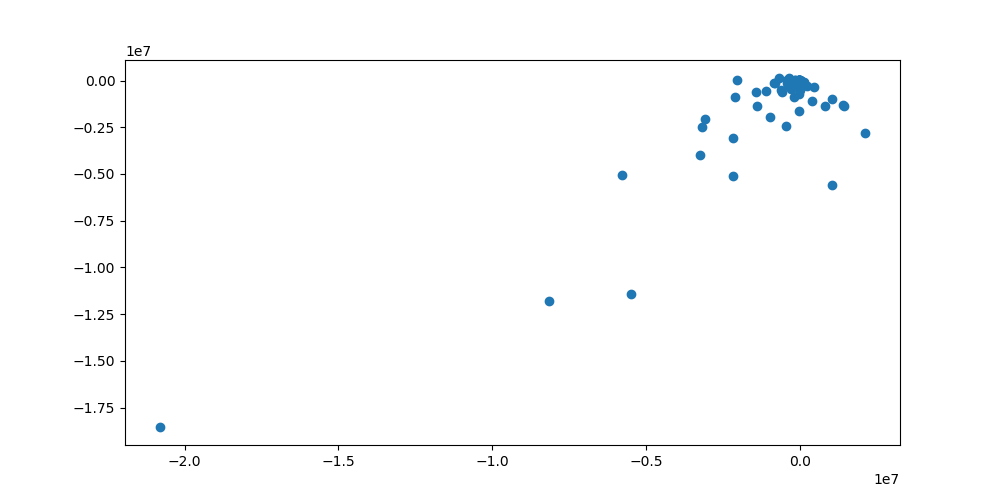
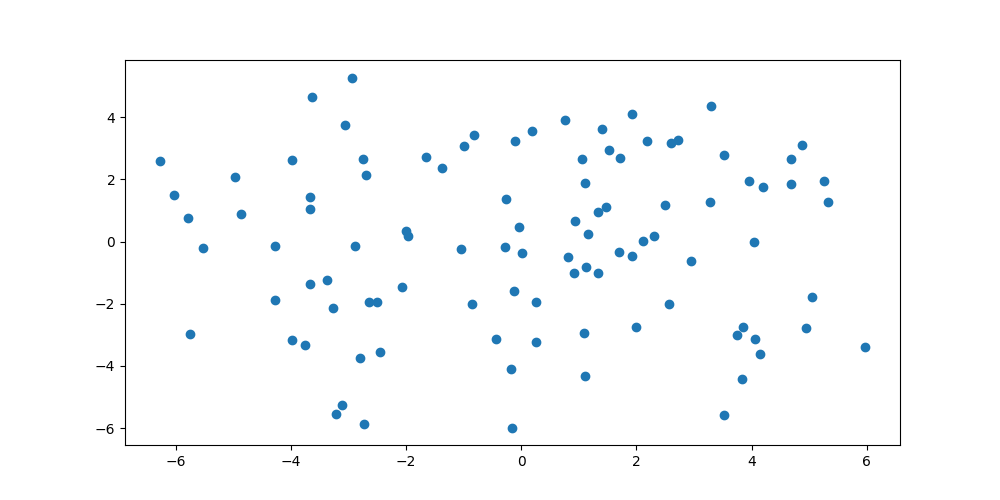
fix

diff --git a/main.cpp b/main.cpp
@@ -1,176 +1,206 @@
-#include <iostream>
+#include <algorithm>
+#include <cmath>
+#include <cstdlib>
+#include <ctime>
 #include <fstream>
-#include <math.h>
+#include <iostream>
+#include <limits>
+#include <vector>
 
-
-
-namespace matrixOperations{
-    float computeMean(float **input, int rowCount, int colCount){
-        float mean = 0.0f;
-        for(int i = 0; i < rowCount; ++i){
-            for(int j = 0; j < colCount; ++j){
-                mean += input[i][j];
+namespace matrixOperations {
+    float *computeColumnMeans(float **input, int rowCount, int colCount) {
+        float *means = new float[colCount];
+        for (int j = 0; j < colCount; ++j) {
+            float sum = 0.0f;
+            for (int i = 0; i < rowCount; ++i) {
+                sum += input[i][j];
             }
+            means[j] = sum / static_cast<float>(rowCount);
         }
-        return (mean / (rowCount*colCount));
+        return means;
     }
 
-    void subtractMean(float **input, int rowCount, int colCount, float mean){
-        for(int i = 0; i < rowCount; ++i){
-            for(int j = 0; j < colCount; ++j){
-                input[i][j] = input[i][j] - mean;
+    void centerData(float **input, int rowCount, int colCount, const float *mean) {
+        for (int i = 0; i < rowCount; ++i) {
+            for (int j = 0; j < colCount; ++j) {
+                input[i][j] -= mean[j];
             }
         }
+    }
+
+    float **cloneMatrix(float **input, int rowCount, int colCount) {
+        float **copy = new float *[rowCount];
+        for (int i = 0; i < rowCount; ++i) {
+            copy[i] = new float[colCount];
+            for (int j = 0; j < colCount; ++j) {
+                copy[i][j] = input[i][j];
+            }
+        }
+        return copy;
+    }
+
+    void deleteMatrix(float **matrix, int rowCount) {
+        for (int i = 0; i < rowCount; ++i) {
+            delete[] matrix[i];
+        }
+        delete[] matrix;
     }
 }
 
-namespace vectorOperations{
-    float eculideanProduct(float *vector1, float *vector2, int length){
+namespace vectorOperations {
+    float dotProduct(float *vector1, float *vector2, int length) {
         float result = 0.0f;
-        for(int i = 0; i < length; ++i){
-            result += (vector1[i] * vector2[i]);
+        for (int i = 0; i < length; ++i) {
+            result += vector1[i] * vector2[i];
         }
         return result;
     }
 
-    float *scalarVectorMultiplication(float *vector, float scalar, int length){
-        float *result = new float[length];
-        for(int i = 0; i < length; ++i){
-            result[i] = scalar * vector[i];
-        }
-        return result;
-    }
-
-    float *scalarVectorDivision(float *vector, float scalar, int length){
-        float *result = new float[length];
-        for(int i = 0; i < length; ++i){
-            result[i] = vector[i] / scalar;
-        }
-        return result;
-    }
-
-    float *addVectors(float *vector1, float *vector2, int length){
-        float *result = new float[length];
-        for(int i = 0; i < length; ++i){
-            result[i] = vector1[i] + vector2[i];
-        }
-        return result;
-    }
-
-    float *subtractVectors(float *vector1, float *vector2, int length){
-        float *result = new float[length];
-        for(int i = 0; i < length; ++i){
-            result[i] = vector1[i] - vector2[i];
-        }
-        return result;
-    }
-
-    float vectorNorm(float *vector, int length){
+    float vectorNorm(float *vector, int length) {
         float result = 0.0f;
-        result = eculideanProduct(vector, vector, length);
-        return sqrt(result);
+        for (int i = 0; i < length; ++i) {
+            result += vector[i] * vector[i];
+        }
+        return std::sqrt(result);
     }
 
-    void printVector(float * vec, int length){
-        for(int i = 0; i < length; ++i){
-            std::cout << vec[i] << std::endl;
+    void normalize(float *vector, int length) {
+        float norm = vectorNorm(vector, length);
+        if (norm == 0.0f) {
+            return;
         }
+        for (int i = 0; i < length; ++i) {
+            vector[i] /= norm;
+        }
+    }
+
+    float *randomVector(int length) {
+        float *vector = new float[length];
+        for (int i = 0; i < length; ++i) {
+            vector[i] = static_cast<float>(rand()) / static_cast<float>(RAND_MAX) - 0.5f;
+        }
+        normalize(vector, length);
+        return vector;
+    }
+
+    void printVector(float *vec, int length) {
+        for (int i = 0; i < length; ++i) {
+            std::cout << vec[i] << " ";
+        }
+        std::cout << std::endl;
     }
 }
 
-namespace pca{
-    float * getNextPC(float **input, int rowCount, int colCount, float epsilon){
-        float *result = new float[colCount];
-        srand (time(NULL));
-        for(int i = 0; i < colCount; ++i){
-            result[i] = (rand() % 100) / 100.f;
-            std::cout << result[i] << std::endl;
-        }
-        float difference = epsilon + 1.0f;
-        while(difference < epsilon){
-            float *s = new float[colCount];
-            for(int i = 0; i < colCount; ++i){
-                s[i] = 0;
+namespace pca {
+    float *getNextPC(float **input, int rowCount, int colCount, float epsilon) {
+        float *result = vectorOperations::randomVector(colCount);
+        float *next = new float[colCount];
+
+        float difference = std::numeric_limits<float>::max();
+        while (difference > epsilon) {
+            for (int j = 0; j < colCount; ++j) {
+                next[j] = 0.0f;
             }
-            for(int j = 0; j < rowCount; ++j){
-                s = vectorOperations::addVectors(s, vectorOperations::scalarVectorMultiplication(input[j], vectorOperations::eculideanProduct(input[j], result, colCount), colCount), colCount);
+
+            for (int i = 0; i < rowCount; ++i) {
+                float project = vectorOperations::dotProduct(input[i], result, colCount);
+                for (int j = 0; j < colCount; ++j) {
+                    next[j] += input[i][j] * project;
+                }
             }
-            difference = std::abs(result - vectorOperations::scalarVectorDivision(s, vectorOperations::vectorNorm(s, colCount), colCount));
+
+            vectorOperations::normalize(next, colCount);
+            difference = 0.0f;
+            for (int j = 0; j < colCount; ++j) {
+                difference += std::abs(next[j] - result[j]);
+            }
+
+            for (int j = 0; j < colCount; ++j) {
+                result[j] = next[j];
+            }
         }
+
+        delete[] next;
         return result;
     }
 
-    float **projectData(float **input, float *component, int rowCount, int colCount){
-        for(int k = 0; k  < rowCount; ++k){
-            input[k] = vectorOperations::subtractVectors(input[k], vectorOperations::scalarVectorMultiplication(input[k], vectorOperations::eculideanProduct(input[k], component, colCount), colCount), colCount);
+    float **performPCA(float **input, int rowCount, int colCount, unsigned short dimension) {
+        int effectiveDimension = std::min(static_cast<int>(dimension), colCount);
+        float **centered = matrixOperations::cloneMatrix(input, rowCount, colCount);
+
+        float *mean = matrixOperations::computeColumnMeans(centered, rowCount, colCount);
+        matrixOperations::centerData(centered, rowCount, colCount, mean);
+
+        float **projected = new float *[rowCount];
+        for (int i = 0; i < rowCount; ++i) {
+            projected[i] = new float[effectiveDimension];
         }
-        return input;
-    }
 
-    // Using the power method
-    float** performPCA(float **input, int rowCount, int colCount, unsigned short dimension){
-        
-        // Step 1: Scale data to the center
-        float mean = matrixOperations::computeMean(input, rowCount, colCount);
-        matrixOperations::subtractMean(input, rowCount, colCount, mean);
-        
-        // Step 2: Use power method to calculate the first principal component
-        float * pc1 = getNextPC(input, rowCount, colCount, 1E-06);
-        std::cout << "first pc: " << std::endl;
-        vectorOperations::printVector(pc1, colCount);
-        // Step 3: Use power method to calculate the first principal component
-        input = projectData(input, pc1, rowCount, colCount);
-        
-        // Step 4: Recurse
-        float * pc2 = getNextPC(input, rowCount, colCount, 1E-06);
-        std::cout << "second pc: " << std::endl;
-        vectorOperations::printVector(pc2, colCount);
-        input = projectData(input, pc2, rowCount, colCount);
+        for (int k = 0; k < effectiveDimension; ++k) {
+            float *component = getNextPC(centered, rowCount, colCount, 1e-6f);
+            std::cout << "PC " << (k + 1) << ": ";
+            vectorOperations::printVector(component, colCount);
 
-        return input;
+            for (int i = 0; i < rowCount; ++i) {
+                float projection = vectorOperations::dotProduct(centered[i], component, colCount);
+                projected[i][k] = projection;
+
+                for (int j = 0; j < colCount; ++j) {
+                    centered[i][j] -= projection * component[j];
+                }
+            }
+
+            delete[] component;
+        }
+
+        delete[] mean;
+        matrixOperations::deleteMatrix(centered, rowCount);
+
+        return projected;
     }
 }
 
-float ** loadData(std::string path, int rowCount, int colCount){
-    float **matrix = new float*[rowCount];
-    for(int i = 0; i < rowCount; ++i)
+float **loadData(int rowCount, int colCount) {
+    float **matrix = new float *[rowCount];
+    for (int i = 0; i < rowCount; ++i) {
         matrix[i] = new float[colCount];
-    for(int i = 0; i < rowCount; ++i)
-        for(int j = 0; j < colCount; ++j)
-            matrix[i][j] = (rand() % 100);
+        for (int j = 0; j < colCount; ++j) {
+            matrix[i][j] = static_cast<float>((rand() % 100)) / 10.0f;
+        }
+    }
     return matrix;
 }
 
-void writeData(std::string path, float **matrix, int rowCount, int colCount){
-    std::ofstream f;
-    f.open(path);
-    for(int i = 0; i < rowCount; ++i){
-        for(int j = 0; j < colCount-1; ++j){
-            f << matrix[i][j];
-            f << ",";
+void writeData(std::string path, float **matrix, int rowCount, int colCount) {
+    std::ofstream f(path);
+    for (int i = 0; i < rowCount; ++i) {
+        for (int j = 0; j < colCount - 1; ++j) {
+            f << matrix[i][j] << ",";
         }
-        f << matrix[i][colCount-1];
-        f << "\n";
+        f << matrix[i][colCount - 1] << "\n";
     }
     f.close();
 }
 
-int main(){
-    
-    srand (time(NULL));
-    
-    // rows are data
-    // cols are dims
+int main() {
+    srand(static_cast<unsigned int>(time(nullptr)));
+
     int rowCount = 100;
     int colCount = 3;
-    
+
     std::cout << "Load data from filesystem..." << std::endl;
-    float **input = loadData("obsolet", rowCount, colCount);
+    float **input = loadData(rowCount, colCount);
     writeData("file.txt", input, rowCount, colCount);
+
     std::cout << "Perform PCA..." << std::endl;
     float **output = pca::performPCA(input, rowCount, colCount, 2);
+
     std::cout << "Write reduced data to filesystem..." << std::endl;
-    writeData("output.txt", input, rowCount, colCount);
+    writeData("output.txt", output, rowCount, 2);
+
+    matrixOperations::deleteMatrix(input, rowCount);
+    matrixOperations::deleteMatrix(output, rowCount);
+
     std::cout << "Done!" << std::endl;
     return 0;
 }

diff --git a/script.py b/script.py
@@ -2,8 +2,8 @@ from matplotlib import pyplot as plt
 from mpl_toolkits.mplot3d import Axes3D
 import pandas as pd
 
-raw = pd.read_csv("./file.txt").as_matrix()
-pca = pd.read_csv("./output.txt").as_matrix()
+raw = pd.read_csv("./file.txt").to_numpy()
+pca = pd.read_csv("./output.txt").to_numpy()
 
 fig = plt.figure(figsize=(10,5))
 ax = fig.add_subplot(111, projection='3d')
